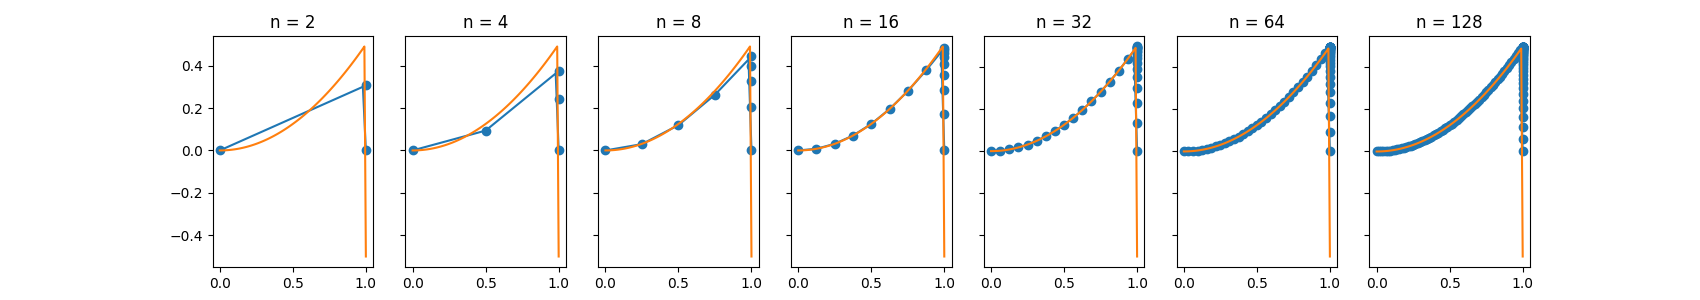
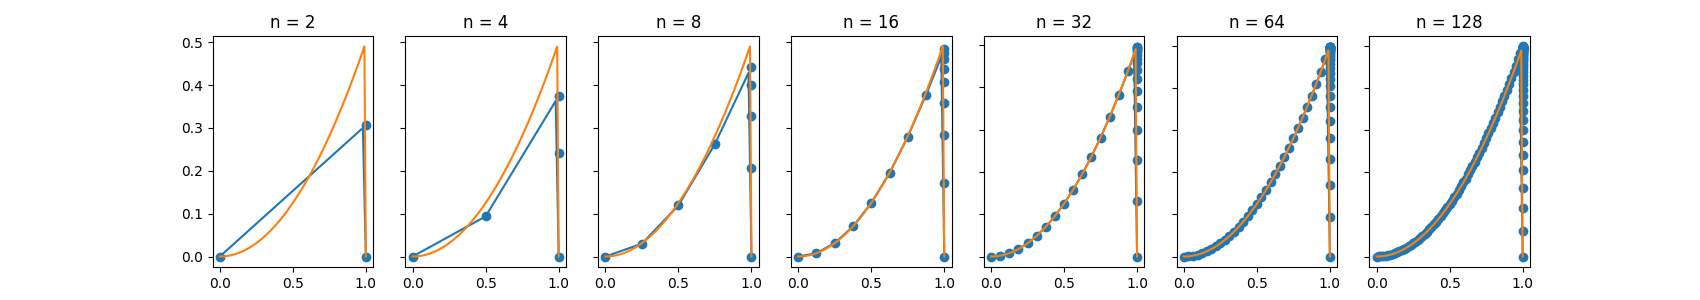
Fix bug in HW6

diff --git a/Homework6/code/main.py b/Homework6/code/main.py
@@ -262,7 +262,7 @@ def evaluate(use_shishkin: bool, n_list, epsilon):
         ref_func = lambda x: (2*epsilon+1)/(2-2*math.exp(1/epsilon))*(math.exp(x/epsilon)-1) + 0.5 * x**2 + epsilon*x
     else:
         # TODO: make small epsilon approximation
-        ref_func = lambda x: -math.exp((x-1)/epsilon)*(2*epsilon+1) + 0.5 * x**2 + epsilon*x
+        ref_func = lambda x: -math.exp((x-1)/epsilon)*(epsilon+1/2) + 0.5 * x**2 + epsilon*x
 
     fig, axs = plt.subplots(1, len(n_list), figsize=(17,3))
     errs = []

diff --git a/Homework6/report/README.md b/Homework6/report/README.md
@@ -61,7 +61,6 @@ $$
 
 
 进行测试，结果如下
-
 ### $ \epsilon = 0.1 $, Uniform
 | N | $ L^1 $ error | order | $ L^\infty $ error | order |
 | - | ------------- | ----- | ------------------ | ----- |
@@ -97,13 +96,13 @@ $$
 ### $ \epsilon = 0.001 $, Uniform
 | N | $ L^1 $ error | order | $ L^\infty $ error | order |
 | - | ------------- | ----- | ------------------ | ----- |
-|2|1.666e-01|0.00000e+00|5.010e-01|0.00000e+00|
-|4|1.141e-01|5.45868e-01|5.010e-01|0.00000e+00|
-|8|6.176e-02|8.85702e-01|5.010e-01|0.00000e+00|
-|16|3.124e-02|9.83161e-01|5.010e-01|0.00000e+00|
-|32|1.561e-02|1.00095e+00|5.010e-01|0.00000e+00|
-|64|7.762e-03|1.00801e+00|5.010e-01|0.00000e+00|
-|128|3.840e-03|1.01534e+00|5.010e-01|0.00000e+00|
+|2|1.666e-01|0.00000e+00|4.938e-01|0.00000e+00|
+|4|1.141e-01|5.45706e-01|4.909e-01|8.33249e-03|
+|8|6.180e-02|8.85266e-01|4.840e-01|2.03964e-02|
+|16|3.128e-02|9.82234e-01|4.710e-01|3.92875e-02|
+|32|1.565e-02|9.99078e-01|4.499e-01|6.62069e-02|
+|64|7.803e-03|1.00422e+00|4.145e-01|1.18085e-01|
+|128|3.881e-03|1.00768e+00|3.578e-01|2.12246e-01|
 
 下面为此时解的情况：
 ![](Homework6.assets/eps_0.001_uniform.png)
@@ -113,13 +112,13 @@ $$
 ### $ \epsilon = 0.001 $, shishkin
 | N | $ L^1 $ error | order | $ L^\infty $ error | order |
 | - | ------------- | ----- | ------------------ | ----- |
-|2|5.190e-02|0.00000e+00|5.010e-01|0.00000e+00|
-|4|3.547e-02|5.49399e-01|5.010e-01|0.00000e+00|
-|8|1.218e-02|1.54212e+00|5.010e-01|0.00000e+00|
-|16|2.792e-03|2.12508e+00|5.010e-01|0.00000e+00|
-|32|8.354e-04|1.74056e+00|5.010e-01|0.00000e+00|
-|64|5.224e-04|6.77381e-01|5.010e-01|0.00000e+00|
-|128|4.928e-04|8.39751e-02|5.010e-01|0.00000e+00|
+|2|5.177e-02|0.00000e+00|1.903e-01|0.00000e+00|
+|4|3.542e-02|5.47354e-01|1.423e-01|4.19224e-01|
+|8|1.209e-02|1.55110e+00|1.187e-01|2.61048e-01|
+|16|2.656e-03|2.18607e+00|9.619e-02|3.03768e-01|
+|32|6.164e-04|2.10752e+00|6.596e-02|5.44303e-01|
+|64|2.050e-04|1.58830e+00|4.221e-02|6.44002e-01|
+|128|9.027e-05|1.18320e+00|2.611e-02|6.92890e-01|
 
 下面为此时解的情况：
 ![](Homework6.assets/eps_0.001_shishkin.png)
@@ -129,13 +128,13 @@ $$
 ### $ \epsilon = 1e-05 $, Uniform
 | N | $ L^1 $ error | order | $ L^\infty $ error | order |
 | - | ------------- | ----- | ------------------ | ----- |
-|2|1.667e-01|0.00000e+00|5.000e-01|0.00000e+00|
-|4|1.141e-01|5.46583e-01|5.000e-01|0.00000e+00|
-|8|6.174e-02|8.86061e-01|5.000e-01|0.00000e+00|
-|16|3.127e-02|9.81422e-01|5.000e-01|0.00000e+00|
-|32|1.567e-02|9.97077e-01|5.000e-01|0.00000e+00|
-|64|7.834e-03|9.99996e-01|5.000e-01|0.00000e+00|
-|128|3.919e-03|9.99104e-01|5.000e-01|0.00000e+00|
+|2|1.664e-01|0.00000e+00|4.990e-01|0.00000e+00|
+|4|1.139e-01|5.47582e-01|4.985e-01|1.37527e-03|
+|8|6.149e-02|8.88753e-01|4.973e-01|3.63856e-03|
+|16|3.102e-02|9.87155e-01|4.946e-01|7.67157e-03|
+|32|1.542e-02|1.00872e+00|4.893e-01|1.56048e-02|
+|64|7.584e-03|1.02361e+00|4.787e-01|3.17858e-02|
+|128|3.669e-03|1.04745e+00|4.573e-01|6.57469e-02|
 
 下面为此时解的情况：
 ![](Homework6.assets/eps_1e-05_uniform.png)
@@ -145,13 +144,13 @@ $$
 ### $ \epsilon = 1e-05 $, shishkin
 | N | $ L^1 $ error | order | $ L^\infty $ error | order |
 | - | ------------- | ----- | ------------------ | ----- |
-|2|5.200e-02|0.00000e+00|5.000e-01|0.00000e+00|
-|4|3.522e-02|5.61921e-01|5.000e-01|0.00000e+00|
-|8|1.191e-02|1.56415e+00|5.000e-01|0.00000e+00|
-|16|2.599e-03|2.19635e+00|5.000e-01|0.00000e+00|
-|32|6.692e-04|1.95744e+00|5.000e-01|0.00000e+00|
-|64|3.357e-04|9.95292e-01|5.000e-01|0.00000e+00|
-|128|2.705e-04|3.11406e-01|5.000e-01|0.00000e+00|
+|2|5.175e-02|0.00000e+00|1.931e-01|0.00000e+00|
+|4|3.497e-02|5.65248e-01|1.252e-01|6.24697e-01|
+|8|1.166e-02|1.58449e+00|5.671e-02|1.14295e+00|
+|16|2.349e-03|2.31178e+00|1.664e-02|1.76889e+00|
+|32|4.190e-04|2.48703e+00|3.437e-03|2.27554e+00|
+|64|8.544e-05|2.29374e+00|5.569e-04|2.62561e+00|
+|128|2.027e-05|2.07560e+00|7.795e-05|2.83681e+00|
 
 下面为此时解的情况：
 ![](Homework6.assets/eps_1e-05_shishkin.png)
@@ -161,13 +160,13 @@ $$
 ### $ \epsilon = 1e-07 $, Uniform
 | N | $ L^1 $ error | order | $ L^\infty $ error | order |
 | - | ------------- | ----- | ------------------ | ----- |
-|2|1.667e-01|0.00000e+00|5.000e-01|0.00000e+00|
-|4|1.141e-01|5.46613e-01|5.000e-01|0.00000e+00|
-|8|6.174e-02|8.86127e-01|5.000e-01|0.00000e+00|
-|16|3.127e-02|9.81537e-01|5.000e-01|0.00000e+00|
-|32|1.566e-02|9.97306e-01|5.000e-01|0.00000e+00|
-|64|7.829e-03|1.00045e+00|5.000e-01|0.00000e+00|
-|128|3.914e-03|1.00002e+00|5.000e-01|0.00000e+00|
+|2|1.664e-01|0.00000e+00|4.990e-01|0.00000e+00|
+|4|1.139e-01|5.47613e-01|4.985e-01|1.37534e-03|
+|8|6.149e-02|8.88819e-01|4.973e-01|3.63887e-03|
+|16|3.102e-02|9.87271e-01|4.946e-01|7.67281e-03|
+|32|1.541e-02|1.00895e+00|4.893e-01|1.56098e-02|
+|64|7.579e-03|1.02408e+00|4.786e-01|3.18063e-02|
+|128|3.664e-03|1.04846e+00|4.573e-01|6.58335e-02|
 
 下面为此时解的情况：
 ![](Homework6.assets/eps_1e-07_uniform.png)
@@ -177,13 +176,13 @@ $$
 ### $ \epsilon = 1e-07 $, shishkin
 | N | $ L^1 $ error | order | $ L^\infty $ error | order |
 | - | ------------- | ----- | ------------------ | ----- |
-|2|5.200e-02|0.00000e+00|5.000e-01|0.00000e+00|
-|4|3.522e-02|5.62050e-01|5.000e-01|0.00000e+00|
-|8|1.191e-02|1.56430e+00|5.000e-01|0.00000e+00|
-|16|2.598e-03|2.19654e+00|5.000e-01|0.00000e+00|
-|32|6.690e-04|1.95740e+00|5.000e-01|0.00000e+00|
-|64|3.357e-04|9.94975e-01|5.000e-01|0.00000e+00|
-|128|2.705e-04|3.11266e-01|5.000e-01|0.00000e+00|
+|2|5.175e-02|0.00000e+00|1.931e-01|0.00000e+00|
+|4|3.497e-02|5.65378e-01|1.252e-01|6.24773e-01|
+|8|1.166e-02|1.58466e+00|5.670e-02|1.14313e+00|
+|16|2.348e-03|2.31202e+00|1.663e-02|1.76937e+00|
+|32|4.187e-04|2.48722e+00|3.432e-03|2.27693e+00|
+|64|8.541e-05|2.29360e+00|5.544e-04|2.63000e+00|
+|128|2.027e-05|2.07522e+00|7.678e-05|2.85208e+00|
 
 下面为此时解的情况：
 ![](Homework6.assets/eps_1e-07_shishkin.png)
@@ -191,10 +190,8 @@ $$
 ![](Homework6.assets/eps_1e-07_shishkin_errors.png)
 ### 总结
 
-这个阶在 $ \epsilon $ 较小的时候表现好奇怪...
+Shishkin 网格可以达到 $ L_1 $ 二阶收敛，而 Uniform 网格只有 $ L_1 $ 一阶。
 
-$ L_\infty $ 在较小时不收敛，应该是因为靠近 1 时的误差。
-
-除此之外，$ L_1 $ 近似是一阶收敛。
+$ L_\infty $ 范数的阶不是很懂。
 
 > 并不是很懂为什么orz
